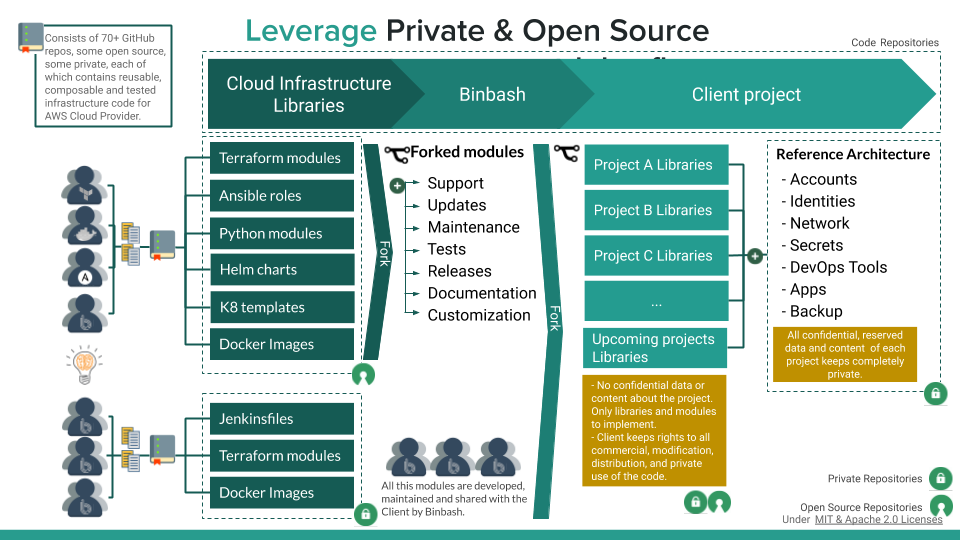
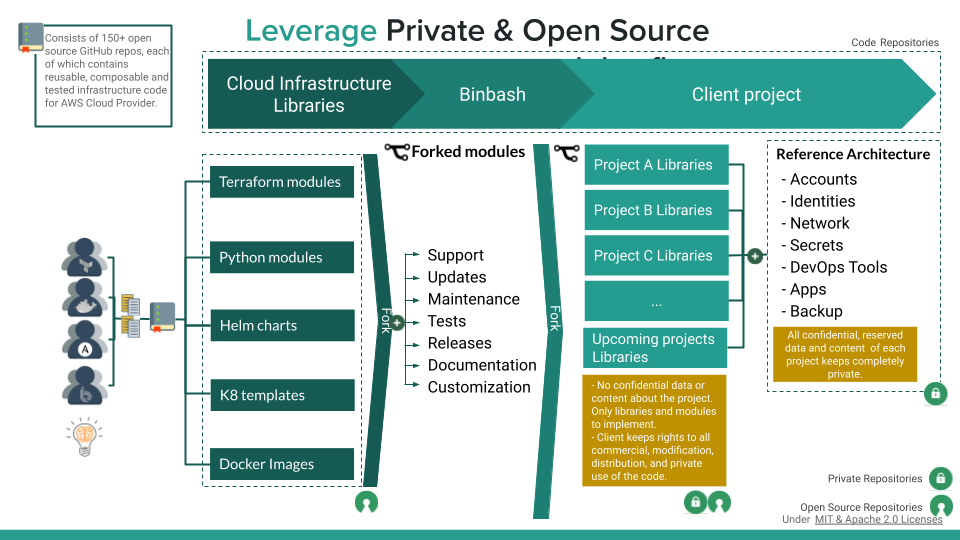
Updated documentation under "How it works"
* Update infra-as-code-library-specs.md

* PR-136 Fixed to docs and README.md

* PR-136 Removed Jenkins from docs

* PR-136 Added changes to diagrams. Added license specific links

diff --git a/docs/how-it-works/infra-as-code-library/infra-as-code-library-specs.md b/docs/how-it-works/infra-as-code-library/infra-as-code-library-specs.md
@@ -2,6 +2,7 @@
 
 ??? important ":checkered_flag: **As Code:** Hundred of thousands lines of code"
     Written in:
+    
     - [x] Terraform
     - [x] Groovy (Jenkinsfiles)
     - [x] Ansible
@@ -23,34 +24,35 @@
 
 ??? important ":checkered_flag: **DoD of a highly reusable, configurable, and composible sub-modules**"      
     Which will be 100%
+
     - :fast_forward: modular 
         - equivalent to other programming languages functions - Example for terraform -
          [https://www.terraform.io/docs/modules/usage.html](https://www.terraform.io/docs/modules/usage.html) (but can be propagated for other languages and tools):
             1. **inputs, outputs parameters.**
             2. **code reuse (reusable):** consider tf modules and sub-modules approach.
             3. **testable** by module / function.
-                1. Since TF it's oriented to work through 3rd party API calls, then tests are more likely to be
+                1. Since TF is oriented to work through 3rd party API calls, then tests are more likely to be
                  `integration tests` rather than `unit tests`. If we don't allow integration for terraform then we
                   can't work at all.
                     1. This has to be analyzed for every language we'll be using and how we implement it (terraform,
                      cloudformation, ansible, python, bash, docker, kops and k8s kubeclt cmds)
-            4. **composition** (composable): have multiple functions and use it together
+            4. **composition** (composable): have multiple functions and use them together
                 2. **eg:** `def_add(x,y){return x+y} ; def_sub(x,y){return x-y}; sub(add(3,4), add(7,5))`
             5. **abstraction** (abstract away complexity): we have a very complex function but we only expose it's
              definition to the API, **eg:** `def_ai_processing(data_set){very complex algorithm here};
               ai_processing([our_data_set_here])`
-            6. **Avoid inline: **blocks The configuration for some Terraform resources can be defined either as
-             inline blocks or as separate resources. When creating a module, you should always use a separate
-              resource. For example, the [aws_route_table](https://www.terraform.io/docs/providers/aws/r/route_table.html) 
-              resource allows you to define routes via inline blocks. Otherwise, your module will be less 
-              flexible and configurable. So If you try to use a mix of both inline blocks _and_ separate resources,
-               you run into bugs where they will conflict and overwrite each other. Therefore, you must use one or
-                the other (ref: [https://blog.gruntwork.io/how-to-create-reusable-infrastructure-with-terraform-modules-25526d65f73d](https://blog.gruntwork.io/how-to-create-reusable-infrastructure-with-terraform-modules-25526d65f73d)))
-            7. **Use module-relative paths: **The catch is that the file path you use has to be relative
-             (since you could run Terraform on many different computers) — but what is it relative to? By default,
-              Terraform interprets the path relative to the working directory. That’s a good default for normal
-               Terraform templates, but it won’t work if the file is part of a module. To solve this issue, always
-                use a [path variable](https://www.terraform.io/docs/configuration/interpolation.html#path-variables)
+            6. **avoid inline blocks:** The configuration for some Terraform resources can be defined either as
+             inline blocks or as separate resources. For example, the [aws_route_table](https://www.terraform.io/docs/providers/aws/r/route_table.html) 
+              resource allows you to define routes via inline blocks. But by doing so, your module become less 
+              flexible and configurable. Also, if a mix of both, inline blocks _and_ separate resources, is used,
+               errors may arise in which they conflict and overwrite each other. Therefore, you must use one or
+                the other (ref: [https://blog.gruntwork.io/how-to-create-reusable-infrastructure-with-terraform-modules-25526d65f73d](https://blog.gruntwork.io/how-to-create-reusable-infrastructure-with-terraform-modules-25526d65f73d))
+                <br />As a rule of thumb, when creating a module, separate resources should always be used.
+            7. **use module-relative paths: **The catch is that the used file path has to be relative
+             (since you could run Terraform on many different computers) — but relative to what? By default,
+              Terraform interprets the path as relative to the working directory. That’s a good default for normal
+               Terraform templates, but it won’t work if the file is part of a module. 
+               <br />To solve this issue, always use a [path variable](https://www.terraform.io/docs/configuration/interpolation.html#path-information)
                 in file paths.
                 eg: 
                 ```
@@ -63,7 +65,7 @@
 
 ??? important ":checkered_flag: **Solutions must be versioned**"        
     So as to be able to manage them as a software product with releases and change log. 
-    In this way we'll be able to know which version is currently deployed in a certain client and consider it's upgrade.
+    This way we'll be able to know which version is currently deployed in a given client and consider upgrading it.
   
 
 ??? important ":checkered_flag: **Env Parity**"      
@@ -71,35 +73,34 @@
      
 
 ??? important ":checkered_flag: **Updated**"      
-    Continually make updates, additions, and fixes to the libraries and modules. 
+    Continuously perform updates, additions, and fixes to libraries and modules. 
 
 ??? important ":checkered_flag: **Orchestrated in automation**"         
     We use the [leverage-cli](../leverage-cli/index.md) for this purpose 
         
 ??? important ":checkered_flag: **Proven & Tested**"      
-        Customers & every commit goes through a suite of automated tests to gran code styling and functional testing.
-    
-        *   [x] Develop a wrapper/jobs together with specific testing tools in order to grant the modules are working as expected.
-        *   [x] Ansible: 
-            *   [Testing your ansible roles w/ molecule](https://www.jeffgeerling.com/blog/2018/testing-your-ansible-roles-molecule)
-            *   [How to test ansible roles with molecule on ubuntu](https://www.digitalocean.com/community/tutorials/how-to-test-ansible-roles-with-molecule-on-ubuntu-16-04)
-        *   [x] Terraform:
-            *   [gruntwork-io/terratest](https://github.com/gruntwork-io/terratest)
+    Every commit goes through a suite of automated tests to grant code styling and functional testing.
+
+    *   [x] Develop a wrapper/jobs together with specific testing tools in order to grant the modules are working as expected.
+    *   [x] Ansible: 
+        *   [Testing your ansible roles w/ molecule](https://www.jeffgeerling.com/blog/2018/testing-your-ansible-roles-molecule)
+        *   [How to test ansible roles with molecule on ubuntu](https://www.digitalocean.com/community/tutorials/how-to-test-ansible-roles-with-molecule-on-ubuntu-16-04)
+    *   [x] Terraform:
+        *   [gruntwork-io/terratest](https://github.com/gruntwork-io/terratest)
     
 ??? important ":checkered_flag: **Cost savings by design**"      
     The architecture for our Library / Code Modules helps an organization to analyze its current IT and DevSecOps
-    Cloud strategy and identify areas where changes could lead to cost savings. For instance, the architecture may show
+    Cloud strategy and identify areas where changes could lead to cost savings. <br />For instance, the architecture may show
     that multiple database systems could be changed so only one product is used, reducing software and support costs.
-    Provides a basis for reuse. The process of architecting can support both the use and creation of reusable assets.
-    Reusable assets are beneficial to an organization, since they can reduce the overall cost of a system and also
-    improve its quality, given that a reusable asset has already been proven.
+    Provides a basis for reuse. <br />The process of architecting can support both the use and creation of reusable assets.
+    Reusable assets are beneficial for an organization, since they can reduce the overall cost of a system and also
+    improve its quality, since a reusable asset has already been proven.
     
 ??? important ":checkered_flag: **Full Code Access & No Lock-In**"      
-    You get access to 100% of the code under Open Source license ([https://choosealicense.com/](https://choosealicense.com/)) 
-      so If you ever choose to cancel, you keep rights to all the code.
+    You get access to 100% of the code under [Open Source license](https://choosealicense.com/licenses/apache-2.0/), if you choose to discontinue the direct support of the Binbash Leverage team, you keep rights to all the code.
      
 ??? important ":checkered_flag: **Documented**"       
-    Includes example code, use case and thorough documentation, such as[ README.md](http://readme.md/), 
+    Includes code examples, use cases and thorough documentation, such as README.md, 
     --help command, doc-string and in line comments.
      
 ??? important ":checkered_flag: **Supported  & Customizable**"      

diff --git a/docs/how-it-works/infra-as-code-library/infra-as-code-library-forks.md b/docs/how-it-works/infra-as-code-library/infra-as-code-library-forks.md
@@ -4,17 +4,17 @@
 !!! info "We’ll fork every Infrastructure as Code (IaC) Library dependency repo, why?"
     **Grant full governance over the lib repositories**
 
-    - [x] **Availability:** Since  our project resilience and continuity
-    (including the clients) depends on this repositories (via requirement files or imports)
+    - [x] **Availability:** Because our project resilience and continuity
+    (including the clients) depends on these repositories (via requirement files or imports)
     and we want and need total control over the repository used as a dependency.
     **NOTE:** There could be few exceptions when using official open source
-    modules such as the ones shared and maintained by Nginx, Weave, Hashiport, etc.
+    modules makes sense, e.g. the ones shared and maintained by Nginx, Weave, Hashiport, etc.
     - [x] **Reliability (Avoid unforeseen events):** in the event that the original 
     project becomes discontinued while we are still working or depending on it
-    (the owners, generally individual maintainers of the original repository might
-    decide to move from github, ansible galaxy, etc or even close their repo for
+    (the owners, generally individual maintainers of the original repository, might
+    decide to move from github, ansible galaxy, etc. or even close their repo for
     personal reasons).
-    - [x] **Stability:** Our forks form modules (ansible roles / terraform / dockerfiles, etc)
+    - [x] **Stability:** Our forks form modules (ansible roles / terraform / dockerfiles, etc.)
     are always going to be locked to fixed versions for every client so no unexpected behavior will occur.
     - [x] **Projects that don't tag versions:** having the fork protects us against breaking
     changes.
@@ -23,23 +23,23 @@
     of this component.
     - [x] **Centralized Org source of truth:** for improved customer experience and keeping
     dependencies consistently imported from binbash repos at [Leverage Github](https://github.com/binbashar)
-    - [x] **Scope:** Binbash grants and responds for all this dependencies.
+    - [x] **Scope:** Binbash grants and responds for all these dependencies.
     - [x] **Metrics:**  Dashboards w/ internal measurements.
     - [x] **Automation:** We’ll maintain all this workflow cross-tech as standardized and
-    automated as possible adding any extra validation like testing, security check, etc if
+    automated as possible, adding any extra validation like testing, security check, etc., if
     needed -> [Leverage dev-tools](https://github.com/binbashar/le-dev-tools )
     - [x] **Licence & Ownership:** Since we fork open-source and commercially reusable
-    components w/ [MIT and Apache 2.0 license](https://choosealicense.com/licenses/). 
+    components w/ [MIT and Apache 2.0 license](https://choosealicense.com/licenses/apache-2.0/). 
     We keep full rights to all commercial, modification, distribution, and private use of
     the code (No Lock-In w/ owners) through forks inside our own Leverage Project repos. 
-    As a result, when time comes, we can make our libs private at any moment if necessary 
-    for the time being Open Source looks like the best option).
+    As a result, when time comes, we can make our libs private at any moment if necessary.
+    (for the time being Open Source looks like the best option)
 
 !!! important "Collaborators considerations"
     - We look forward to have every Binbash Leverage repo open sourced favoring the 
     collaboration of the open source community. 
     - Repos that are still **private** must not be forked by our internal collaborators
     till we've done a detailed and rigorous review in order to open source them.
-    - As a result any person looking forward to use, extend or update Leverage **public repos**
+    - As a result any person looking forward to use, extend or update Leverage **public repos**,
     could also fork them in its personal or company Github account and create an upstream
     PR to contribute.

diff --git a/docs/how-it-works/infra-as-code-library/modules-library-per-tech.md b/docs/how-it-works/infra-as-code-library/modules-library-per-tech.md
@@ -7,7 +7,6 @@
 | Ansible Galaxy Roles  | [bb-leverage-ansible-roles-list](https://github.com/topics/bb-le-mod-ansible-role)  |
 | Dockerfiles           | [bb-leverage-dockerfiles-list](https://github.com/topics/bb-le-mod-docker)          |
 | Helm Charts           | [bb-leverage-helm-charts-list](https://github.com/topics/bb-le-mod-helm)            |
-| Jenkinsfiles Library  | [bb-leverage-jenkinsfiles-lib](https://github.com/topics/bb-le-mod-jenkins)         |
 | Terraform Modules     | [bb-leverage-terraform-modules-list](https://github.com/topics/bb-le-mod-terraform) |
 
 
@@ -18,6 +17,5 @@
 | [Reference Architecture](https://github.com/orgs/binbashar/teams/leverage-ref-architecture-aws-dev/repositories)       | Most of the AWS resources are here, divided by account.                                                                   |
 | [Dockerfiles](https://github.com/orgs/binbashar/teams/leverage-project-docker-dev/repositories)                        | These are Terraform module we created/imported to build reusable resources / stacks.                                      |
 | [Ansible Playbooks & Roles](https://github.com/orgs/binbashar/teams/leverage-project-ansible-dev/repositories)         | Playbooks we use for provisioning servers such as Jenkins, Spinnaker, Vault, and so on.                                   |
-| [Jenkins Modules](https://github.com/orgs/binbashar/teams/leverage-project-jenkins-dev/repositories)                   | Module we use in our Jenkins pipelines to perform repeated tasks such as posting to Slack, interacting with AWS CLI, etc. |
 | [Helm Charts](https://github.com/orgs/binbashar/teams/leverage-project-helm-dev/repositories)                          | Complementary Jenkins pipelines to clean docker images, unseal Vault, and more. Also SecOps jobs can be found here.       |
 | [Terraform Modules](https://github.com/orgs/binbashar/teams/leverage-project-terraform-dev/repositories)               | Jenkins pipelines, docker images, and other resources used for load testing.                                              |

diff --git a/docs/how-it-works/infra-as-code-library/infra-as-code-library.md b/docs/how-it-works/infra-as-code-library/infra-as-code-library.md
@@ -2,28 +2,28 @@
 
 ## Overview
 A collection of reusable, tested, production-ready E2E
-infrastructure as code solutions, leveraged by modules written in Terraform, Ansible, Jenkinsfiles, 
-Dockerfiles, Helm charts and Makefiles).
+infrastructure as code solutions, leveraged by modules written in Terraform, Ansible,
+Dockerfiles, Helm charts and Makefiles.
 
 ### Model
 
-Our development model is strongly based on code reusability 
+Our development model is strongly based on code reusability.
 ![infra-as-code-library](../../assets/images/diagrams/infra-as-code-library-specs.png "Leverage"){: style="width:750px"}
 
 ### Reusability
-High level summary of the the code reusability efficiency  
+High level summary of the the code reusability efficiency.
 ![infra-as-code-library](../../assets/images/diagrams/infra-as-code-library-reuse.png "Leverage"){: style="width:750px"}
 
 
 !!! important "Considerations"
-    :warning: Above detailed `%` are to be seen as estimates 
+    :warning: Above detailed `%` are to be seen as estimates: 
     
     - :cloud: :lock: [AWS PCI-DSS Reference article](https://aws.amazon.com/quickstart/architecture/compliance-pci/)
     - :cloud: :lock: [AWS HIPAA Reference article](https://aws.amazon.com/compliance/hipaa-compliance/)
     - :cloud: :lock: [AWS GDPR Reference article](https://aws.amazon.com/compliance/gdpr-center/)
 
 ### Modules
-Infrastructure as Code (IaC) Library development and implementation workflow  
+Infrastructure as Code (IaC) Library development and implementation workflow.
 ![infra-as-code-library](../../assets/images/diagrams/infra-as-code-library-workflow.png "Leverage"){: style="width:850px"}
 
 

diff --git a/README.md b/README.md
@@ -20,8 +20,9 @@ Check it out [here](https://leverage.binbash.com.ar/).
 
 1. Clone the repo locally
 2. Config your MkDocs env including the navigation tree directory via `mkdocs.yml` file.
-3. Spin up your MkDocs local dev web server environment (`http://localhost:8000`) (real time updates we'll be shown) via `Makefile` cmd
+3. Spin up your MkDocs local dev web server environment (`http://localhost:8000`) (real time updates we'll be shown) (docker daemon needed) via `Makefile` cmd
 ```bash
+ make init-makefiles # needed only the first time
  make docs-live          
 ```
 4. Update necessary `*.md` files inside the `docs/` folder and check your updates through the local environment
@@ -34,4 +35,8 @@ via CircleCI job to the `gh-pages` branch (currently being built from this branc
 ### TODO
 - Several sections needs completion or update. 
 
+## About Diagrams
 
+Some of them have editable version under `docs/assets/diagrams/editable`.
+
+Others are directly exported from `https://docs.google.com/presentation/d/1t2SWgWlGvuIOqYHkpzxQSVLafI_MCsA3gNz6Kkyf6TE/edit#slide=id.p6`.
